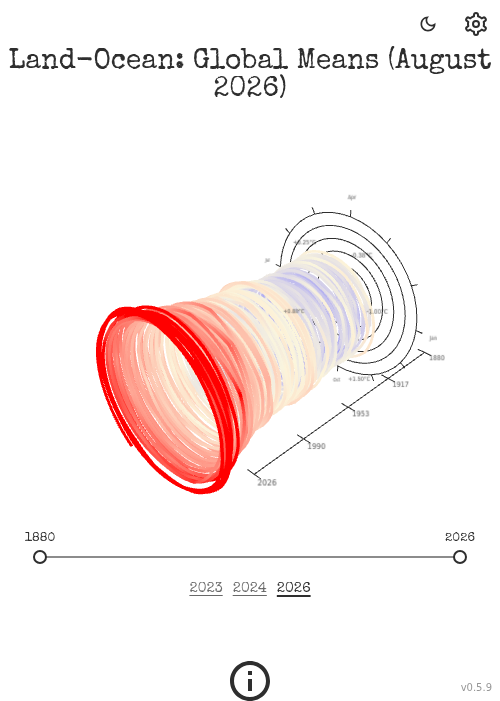
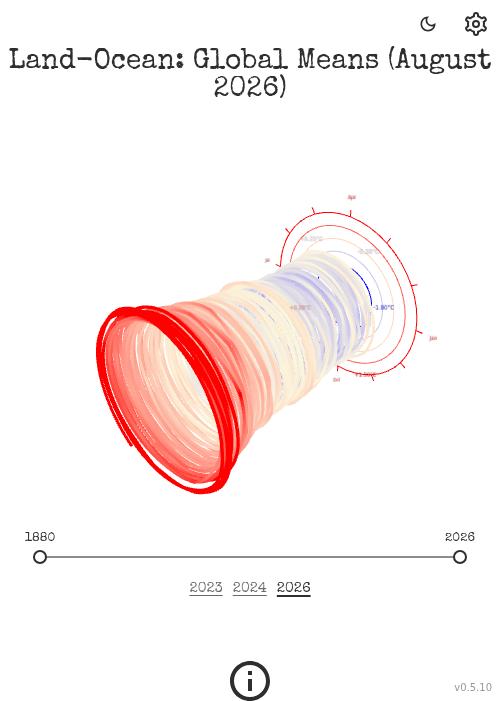
feat: color legend rings and month axis to match the helix gradient
Add a "Colored rings" legend setting (default on) that renders the
temperature rings, their labels, and the month axis using the same
cold/zero/warm gradient as the helix, extracted into a shared
temperatureColor() helper. Also nudge ring labels below their rings
and refresh the README legend screenshot.

diff --git a/src/ClimateAxes.ts b/src/ClimateAxes.ts
@@ -1,8 +1,12 @@
 import * as THREE from 'three';
 import { Settings } from './Settings';
+import { temperatureColor } from './ClimateHelix';
 
 const MONTHS = ['Jan', 'Feb', 'Mar', 'Apr', 'May', 'Jun', 'Jul', 'Aug', 'Sep', 'Oct', 'Nov', 'Dec'];
 const LABELED_MONTHS = new Set([0, 3, 6, 9]);
+const MIN_LEGEND_TEMPERATURE = -1;
+const MAX_LEGEND_TEMPERATURE = 1.5;
+const RING_LABEL_Z_OFFSET = 0.12;
 
 class ClimateAxes extends THREE.Group {
     private readonly lineMaterial: THREE.LineBasicMaterial;
@@ -23,7 +27,7 @@ class ClimateAxes extends THREE.Group {
             this.addTemperatureLegend(settings, height, radius, textColor, temperatureZ);
         }
         if (settings.showMonthAxis) {
-            this.addMonthAxis(radius, textColor, temperatureZ);
+            this.addMonthAxis(settings, radius, textColor, temperatureZ);
         }
     }
 
@@ -65,44 +69,53 @@ class ClimateAxes extends THREE.Group {
 
     private addTemperatureLegend(settings: Settings, height: number, radius: number, color: THREE.Color, centerZ: number): void {
         const circleCount = settings.temperatureRingCount;
-        const minTemperature = -1;
-        const maxTemperature = 1.5;
         const labelAngles = Array.from({ length: circleCount }, (_, index) => index * Math.PI * 2 / circleCount);
+        const labelZ = centerZ - RING_LABEL_Z_OFFSET;
         for (let index = 0; index < circleCount; index++) {
             const fraction = index / (circleCount - 1);
-            const temperature = minTemperature + fraction * (maxTemperature - minTemperature);
+            const temperature = MIN_LEGEND_TEMPERATURE + fraction * (MAX_LEGEND_TEMPERATURE - MIN_LEGEND_TEMPERATURE);
             const circleRadius = 0.4 + fraction * (radius - 0.4);
+            const ringColor = this.legendColor(settings, temperature, color);
             const points = [];
             for (let point = 0; point < 48; point++) {
                 const angle = point / 48 * Math.PI * 2;
                 points.push(new THREE.Vector3(Math.cos(angle) * circleRadius, Math.sin(angle) * circleRadius, centerZ));
             }
-            const ring = new THREE.LineLoop(new THREE.BufferGeometry().setFromPoints(points), new THREE.LineBasicMaterial({ color }));
+            const ring = new THREE.LineLoop(new THREE.BufferGeometry().setFromPoints(points), new THREE.LineBasicMaterial({ color: ringColor }));
             this.add(ring);
             const labelAngle = labelAngles[index];
             this.addLabel(
                 `${temperature >= 0 ? '+' : ''}${temperature.toFixed(2)}°C`,
-                new THREE.Vector3(Math.cos(labelAngle) * (circleRadius + 0.08), Math.sin(labelAngle) * (circleRadius + 0.08), centerZ),
-                color,
+                new THREE.Vector3(Math.cos(labelAngle) * (circleRadius + 0.08), Math.sin(labelAngle) * (circleRadius + 0.08), labelZ),
+                ringColor,
                 0.5,
                 0.14
             );
         }
     }
 
-    private addMonthAxis(radius: number, color: THREE.Color, z: number): void {
+    private addMonthAxis(settings: Settings, radius: number, color: THREE.Color, z: number): void {
         const outerRadius = radius + 0.08;
+        const monthColor = this.legendColor(settings, MAX_LEGEND_TEMPERATURE, color);
         for (let month = 0; month < MONTHS.length; month++) {
             const angle = month / MONTHS.length * Math.PI * 2;
             const innerRadius = radius;
             this.addLine([
                 [Math.cos(angle) * innerRadius, Math.sin(angle) * innerRadius, z],
                 [Math.cos(angle) * outerRadius, Math.sin(angle) * outerRadius, z]
-            ], new THREE.LineBasicMaterial({ color }));
+            ], new THREE.LineBasicMaterial({ color: monthColor }));
             if (LABELED_MONTHS.has(month)) {
-                this.addLabel(MONTHS[month], new THREE.Vector3(Math.cos(angle) * (outerRadius + 0.14), Math.sin(angle) * (outerRadius + 0.14), z), color, 0.4, 0.12);
+                this.addLabel(MONTHS[month], new THREE.Vector3(Math.cos(angle) * (outerRadius + 0.14), Math.sin(angle) * (outerRadius + 0.14), z), monthColor, 0.4, 0.12);
             }
         }
+    }
+
+    /**
+     * Colors legend elements to match the helix's cold/zero/warm gradient when
+     * the "Colored rings" setting is enabled; otherwise falls back to the plain text color.
+     */
+    private legendColor(settings: Settings, temperature: number, fallback: THREE.Color): THREE.Color {
+        return settings.temperatureRingsColored ? temperatureColor(temperature, settings.cold, settings.zero, settings.warm) : fallback;
     }
 
     private addLine(points: number[][], material: THREE.LineBasicMaterial): void {

diff --git a/src/ClimateHelix.ts b/src/ClimateHelix.ts
@@ -100,9 +100,7 @@ class ClimateHelix {
         const temperature = this.csv.getNumber(year, month + 1);
         if (temperature) {
             const radius = map(this.helixConfiguration.minT, this.helixConfiguration.maxT, this.helixConfiguration.minR, this.helixConfiguration.maxR, temperature);
-            const color = new THREE.Color();
-            temperature < 0 ? color.lerpColors(this.#zero, this.#cold, Math.abs(temperature)) :
-                color.lerpColors(this.#zero, this.#warm, temperature);
+            const color = temperatureColor(temperature, this.#cold, this.#zero, this.#warm);
             return {
                 sinX: sin[month],
                 cosX: cos[month],
@@ -193,4 +191,12 @@ function map(a: number, b: number, c: number, d: number, x: number) {
     return b - a === 0 ? (c + d) / 2 : ((x - a) * (d - c) / (b - a)) + c
 }
 
-export { ClimateHelix };
+/**
+ * Maps a temperature to the same cold/zero/warm gradient used by the helix.
+ */
+function temperatureColor(temperature: number, cold: THREE.Color, zero: THREE.Color, warm: THREE.Color): THREE.Color {
+    const color = new THREE.Color();
+    return temperature < 0 ? color.lerpColors(zero, cold, Math.abs(temperature)) : color.lerpColors(zero, warm, temperature);
+}
+
+export { ClimateHelix, temperatureColor };

diff --git a/src/Settings.ts b/src/Settings.ts
@@ -44,6 +44,7 @@ const SETTINGS = {
             monthVisible: false,
             yearTickCount: 5,
             temperatureRingCount: 5,
+            temperatureRingsColored: true,
         },
         yearRangeVisible: true,
         geometry: {
@@ -257,6 +258,10 @@ class Settings {
         return Math.max(2, Math.min(10, Math.floor(SETTINGS.view.axes.temperatureRingCount)));
     }
 
+    get temperatureRingsColored(): boolean {
+        return SETTINGS.view.axes.temperatureRingsColored;
+    }
+
     get firstYear(): number {
         return this.#firstYear;
     }
@@ -328,6 +333,10 @@ class Settings {
             .max(10)
             .step(1)
             .name('Temperature rings')
+            .onChange(() => Events.dispatchEvent(Events.CREATE_HELIX));
+        folder
+            .add(SETTINGS.view.axes, 'temperatureRingsColored')
+            .name('Colored rings')
             .onChange(() => Events.dispatchEvent(Events.CREATE_HELIX));
         folder.close();
     }

diff --git a/CHANGELOG.md b/CHANGELOG.md
@@ -1,5 +1,12 @@
 # Changelog
 
+## v0.6.0
+
+* Add a "Colored rings" legend setting (on by default) that renders the temperature rings using the same cold/zero/warm gradient as the helix.
+* Color the month axis ticks and labels to match the outermost temperature ring, and color each temperature ring's label to match its ring.
+* Move temperature ring labels slightly below their rings for better separation.
+* Update the legend screenshot in the README.
+
 ## v0.5.10
 
 * Document the dataset selector, year range slider, and legend in the README.
